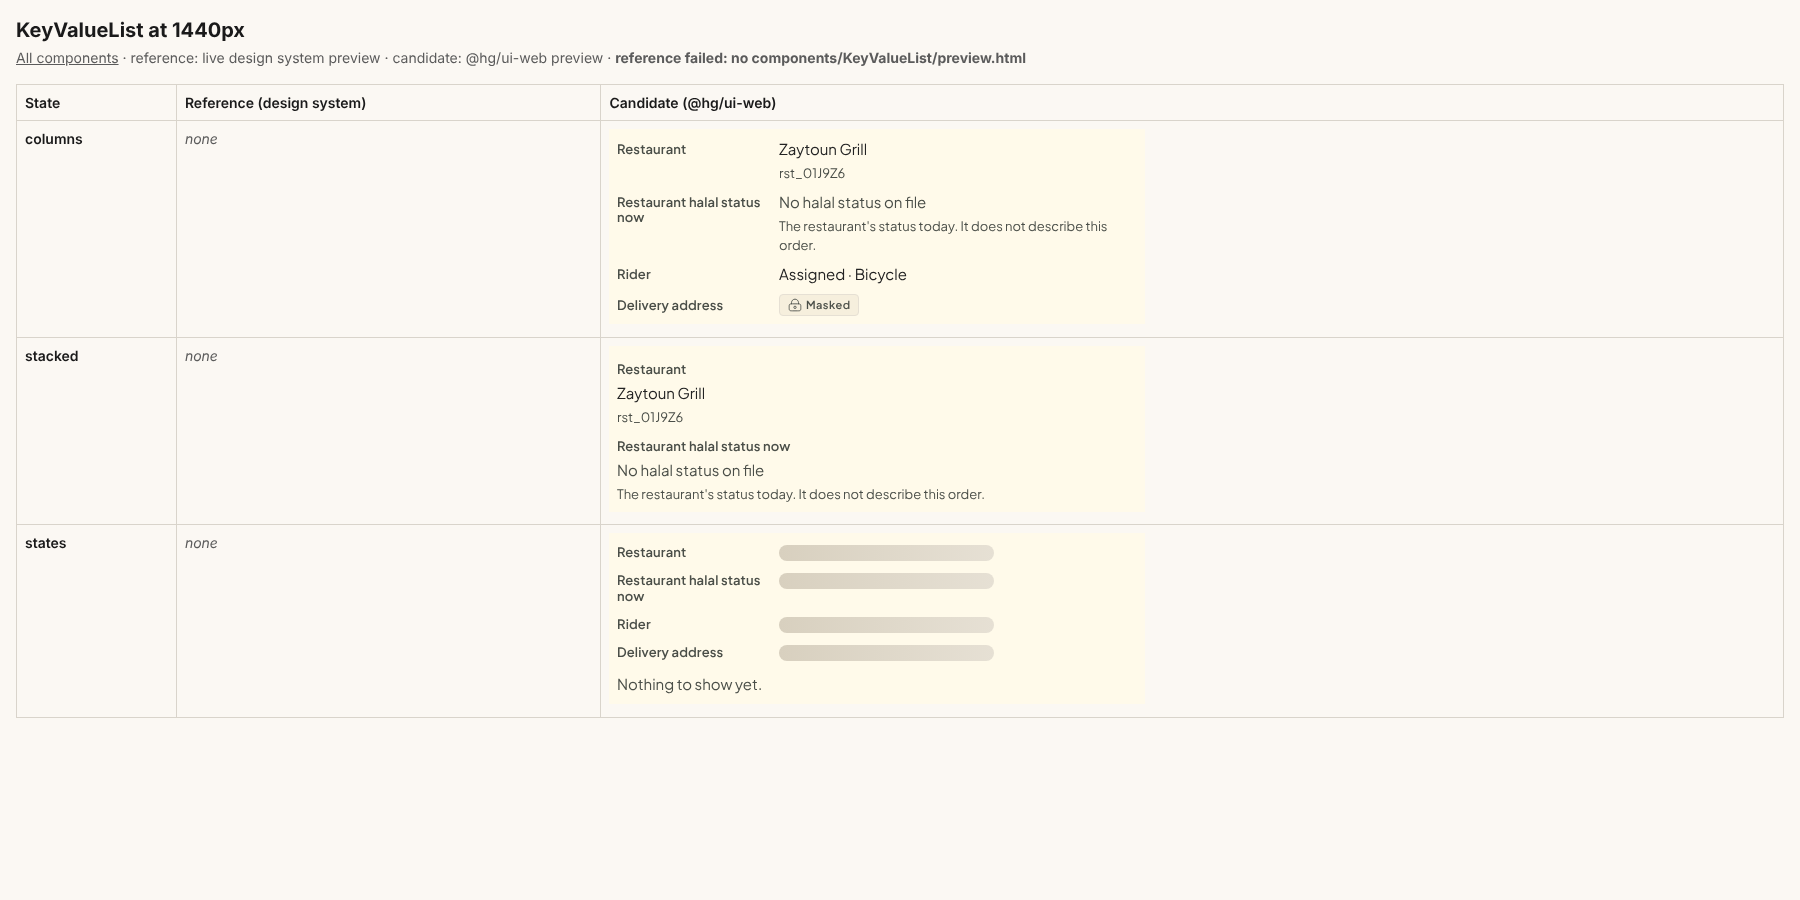
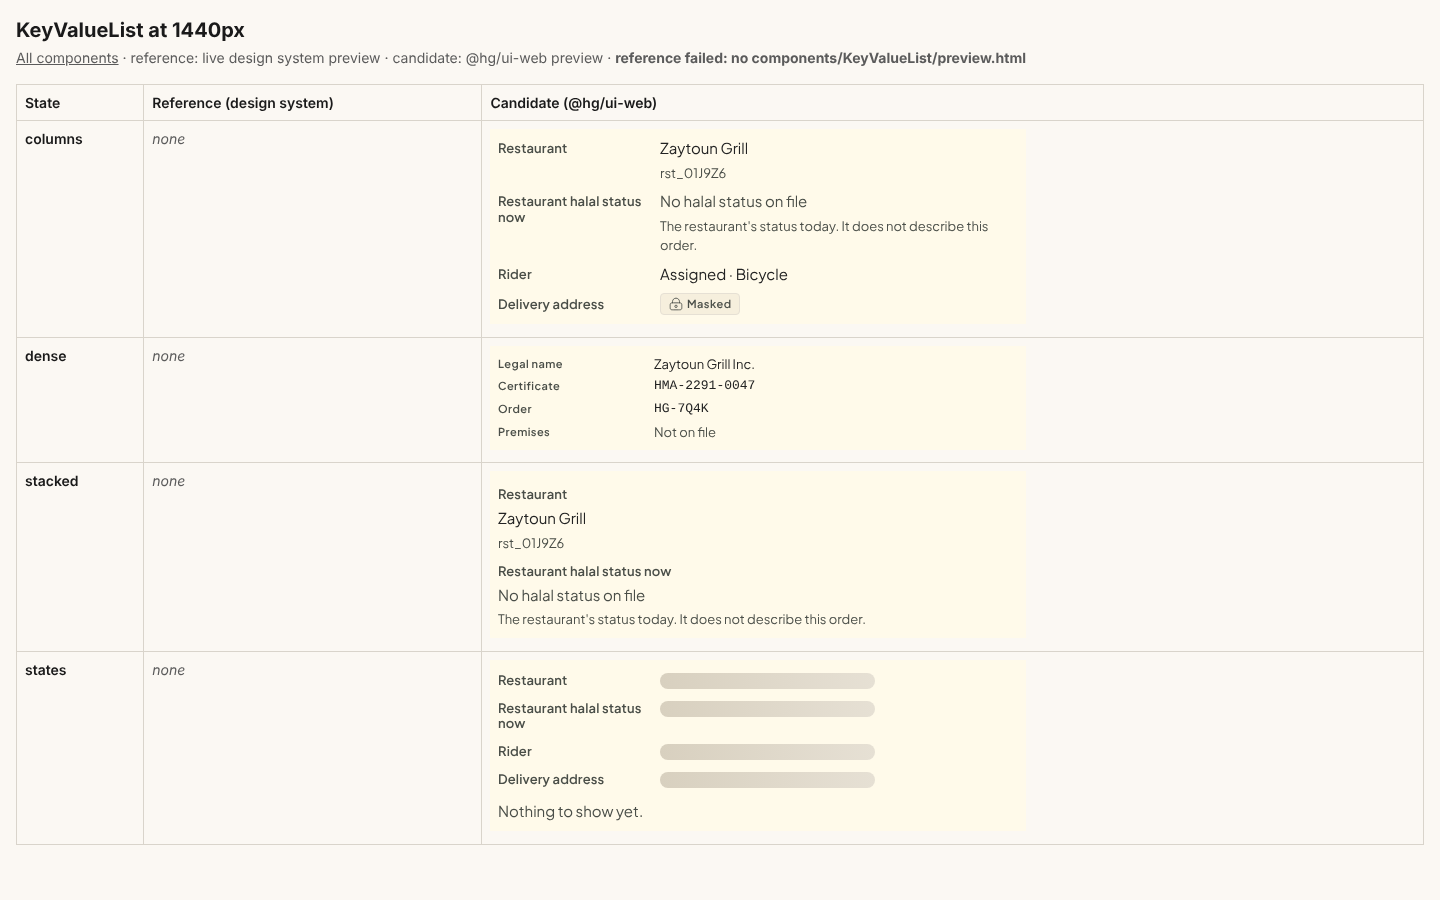
docs: re-shoot KeyValueList, StatCard and ProposedCore for the W1 additions
Claude-Session: https://claude.ai/code/session_01DvfKShYL3C4K7xcwvopStY

diff --git a/index.md b/index.md
@@ -16,3 +16,7 @@ live preview page yet, so they show the candidate only.
 - KeyValueList.png
 - StatCard.png
 - ProposedCore.png (Skeleton, Spinner, Separator, Tooltip)
+
+Update after merging `main` (the stack landed): KeyValueList.png, StatCard.png and
+ProposedCore.png are re-shot with the states added for the app tracks: dense rows with mono
+values, the warning StatCard tint, and the Skeleton rows and block layouts.
